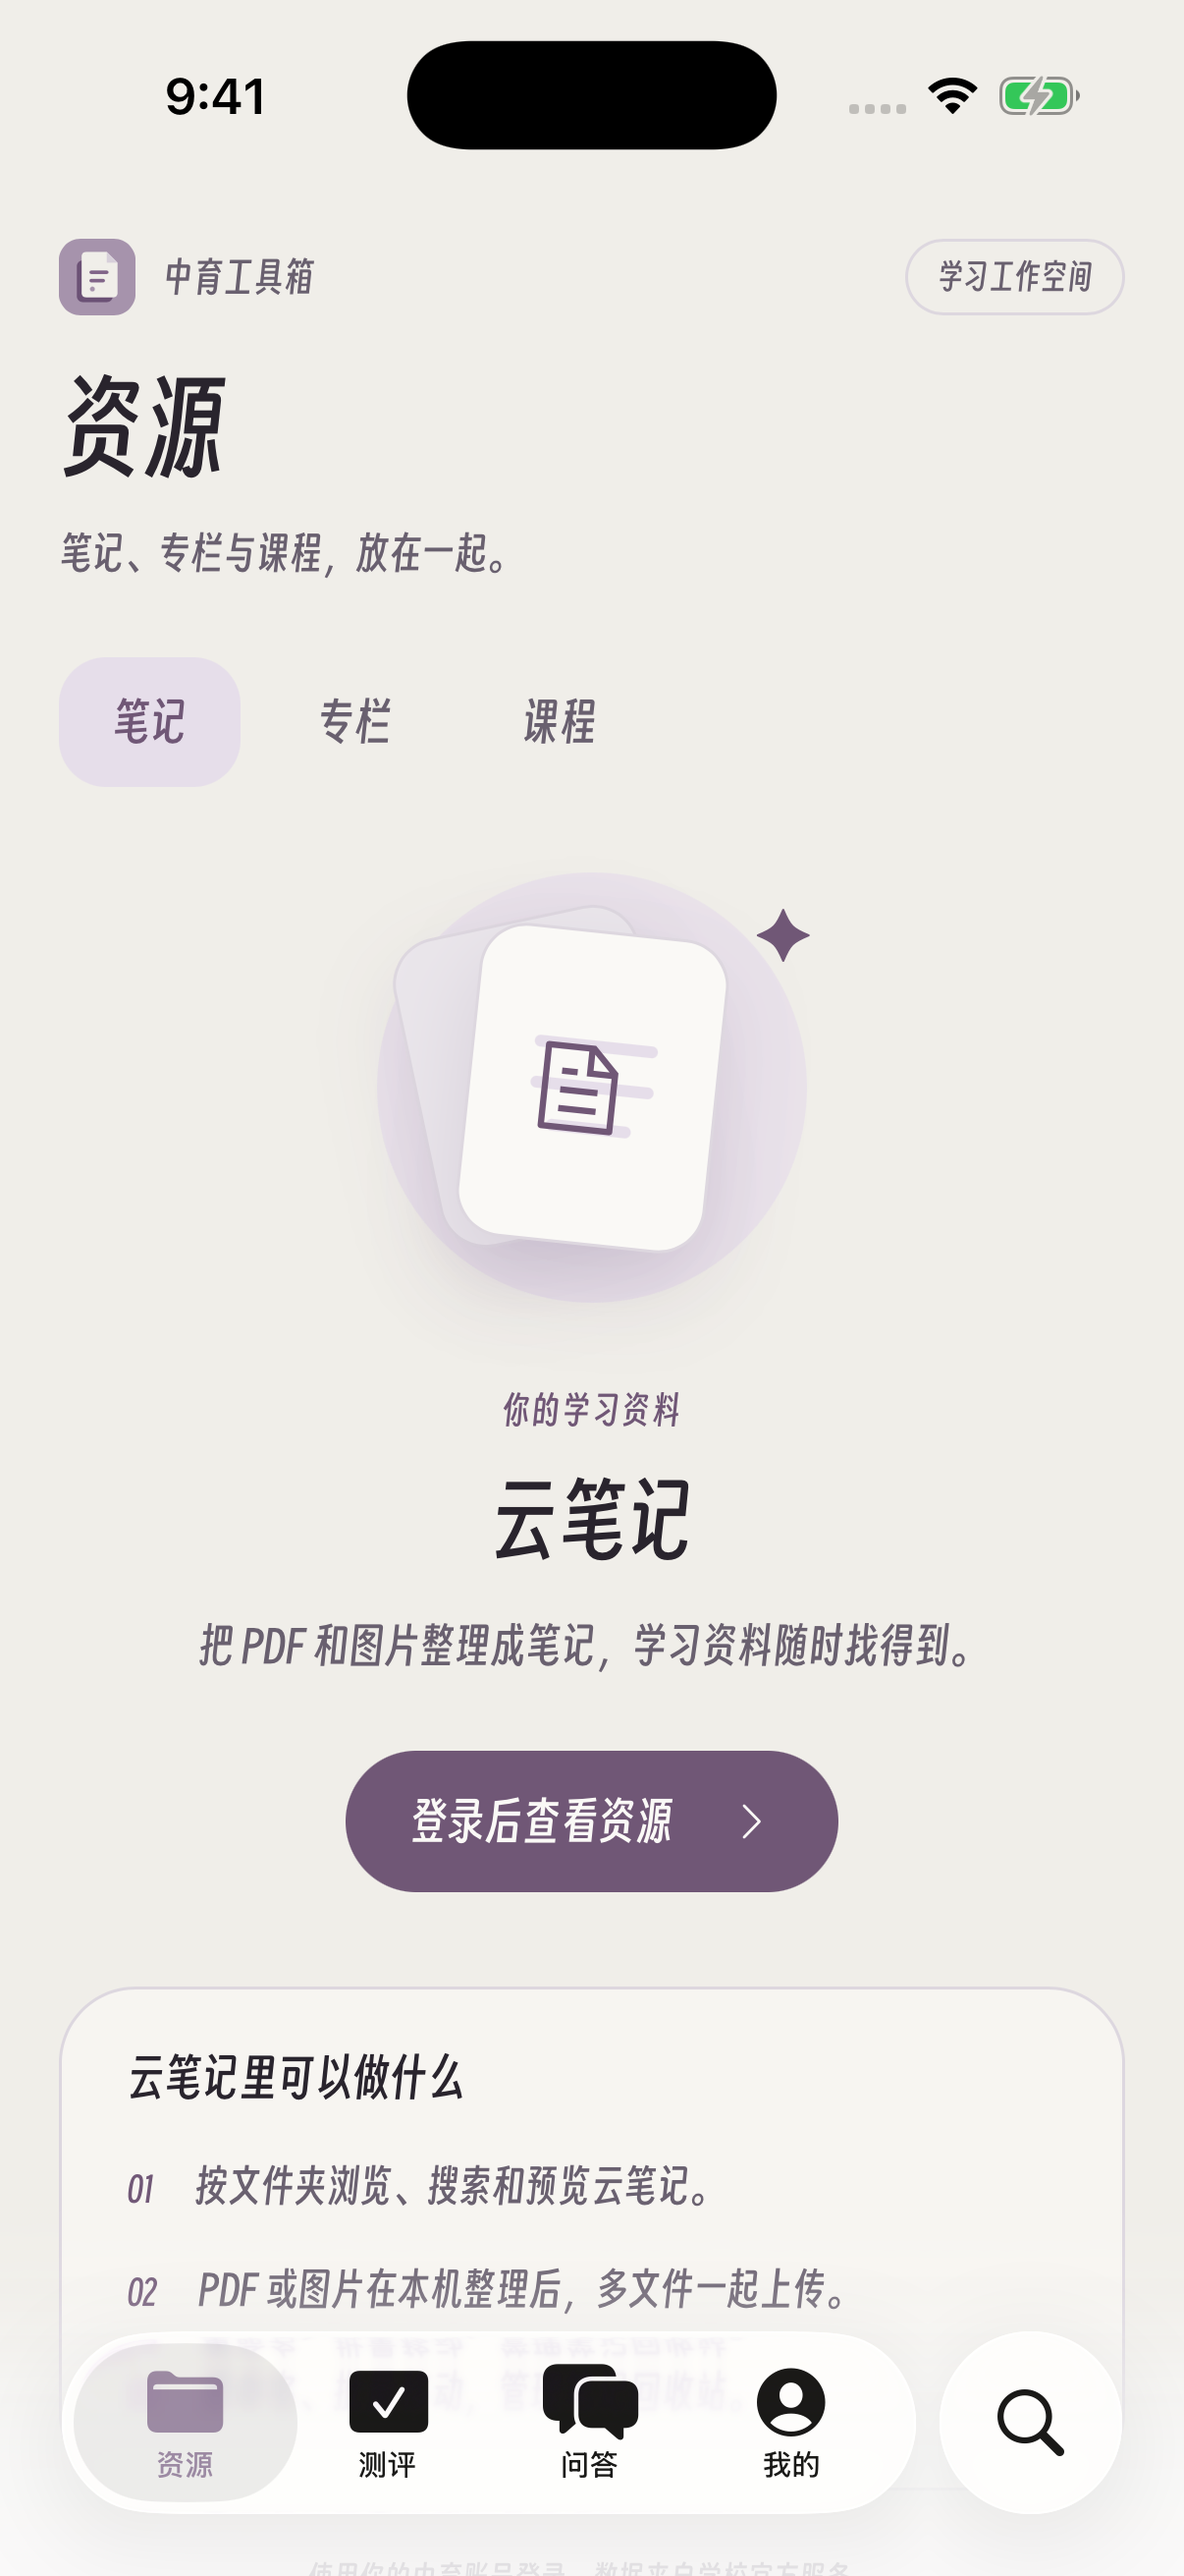
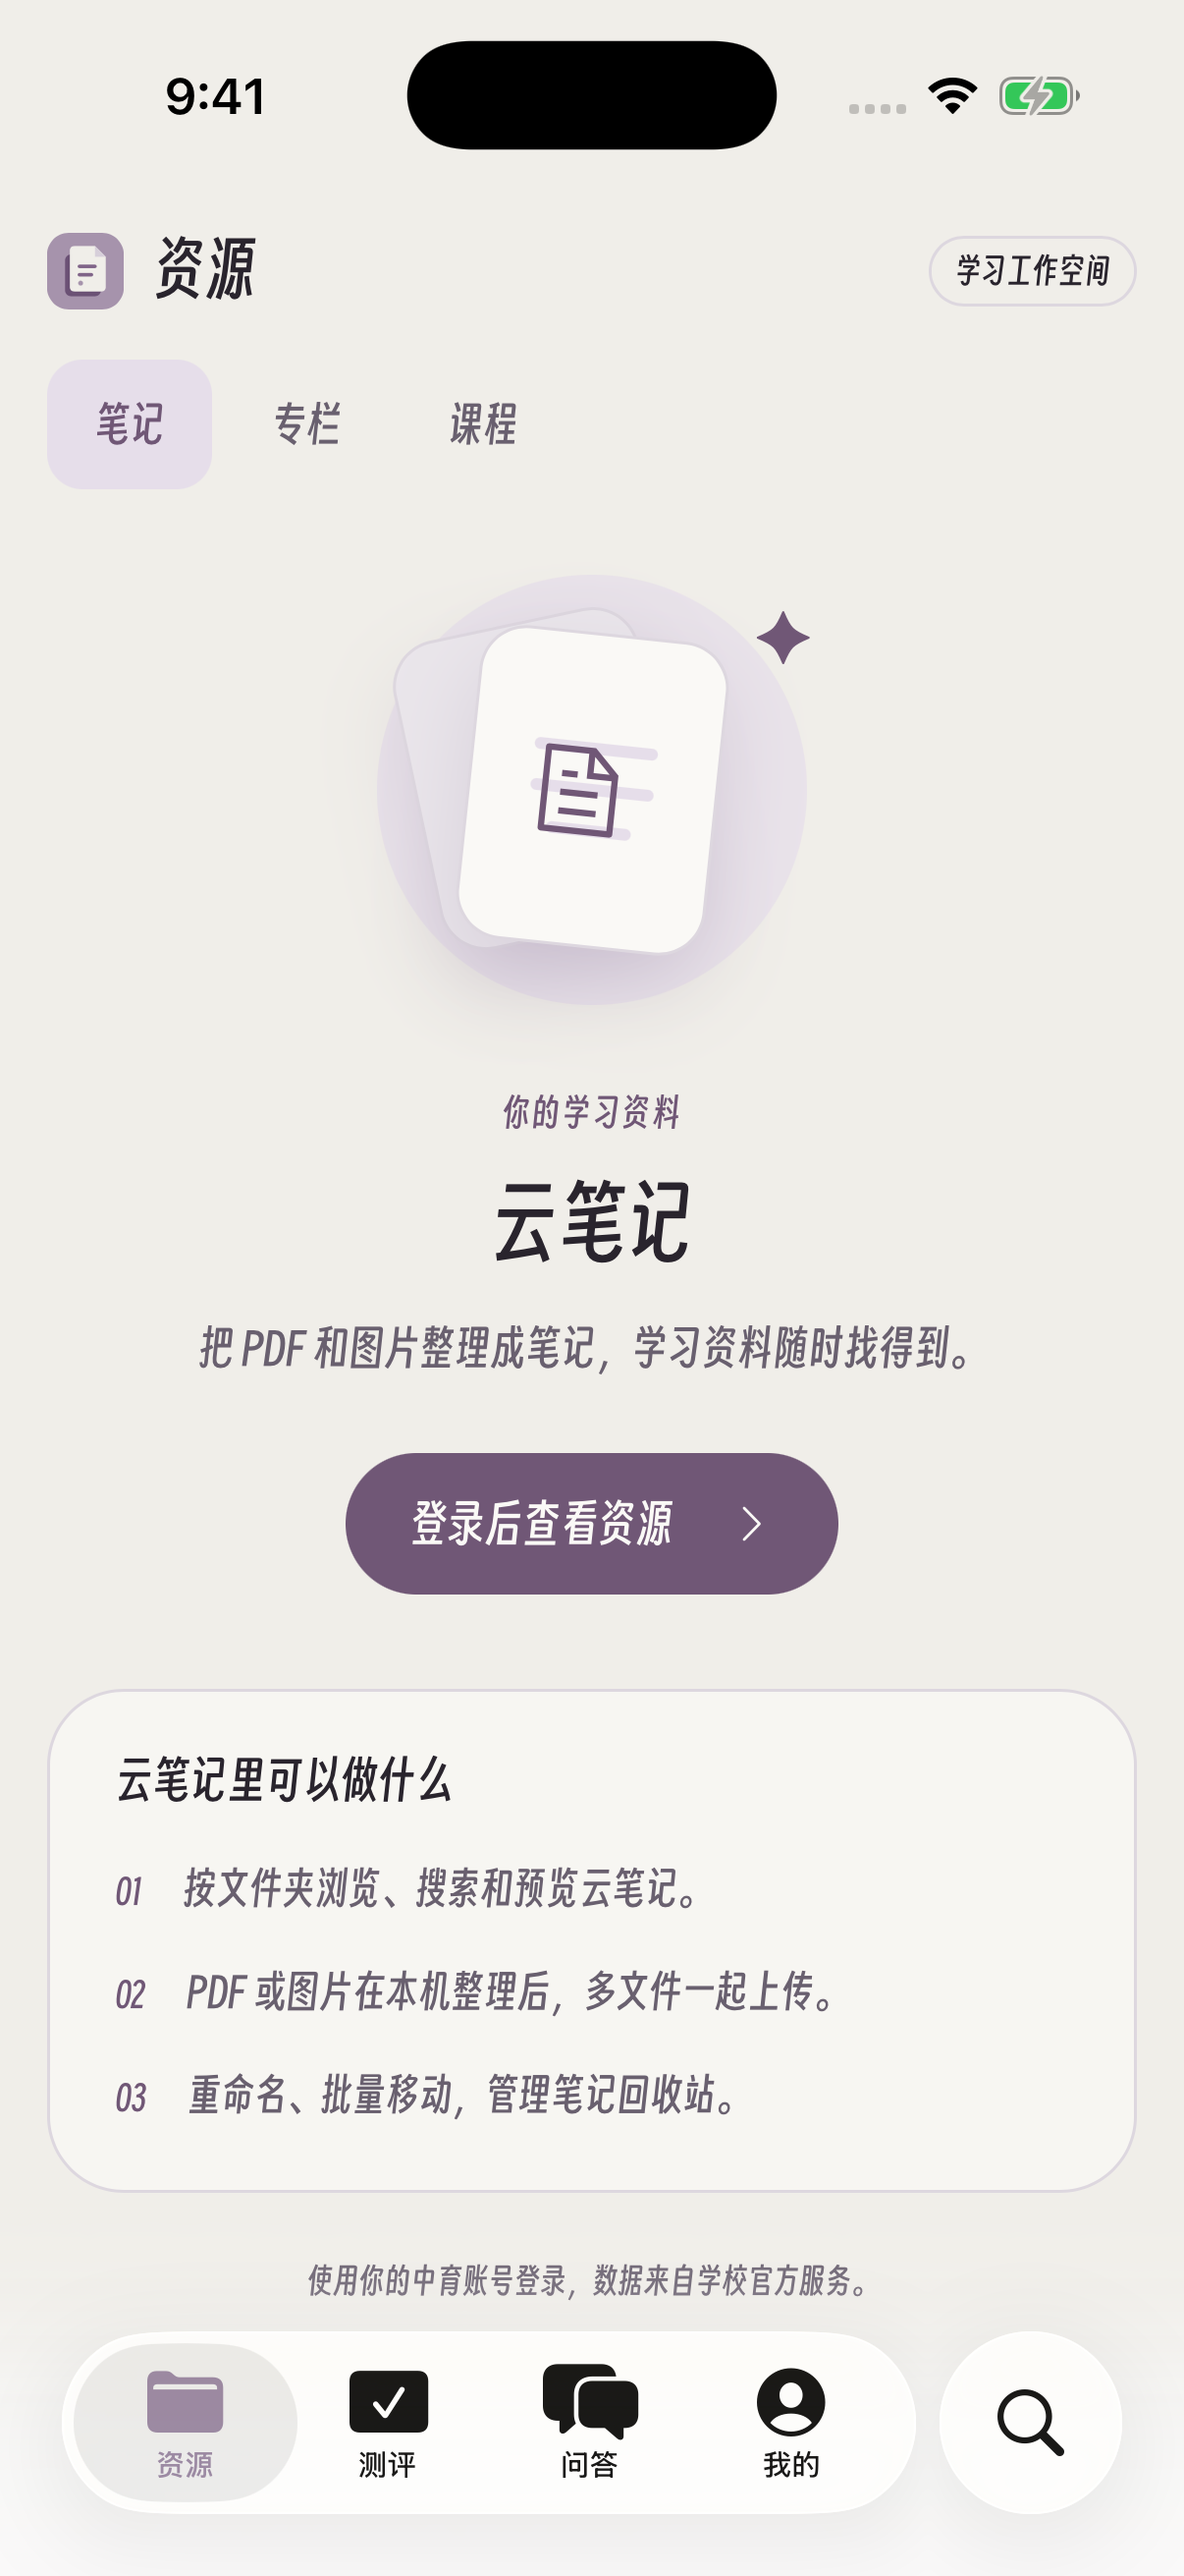
Document compact mobile layout with Android and iOS Beta 2 app screenshots

diff --git a/README.md b/README.md
@@ -11,35 +11,52 @@
 2. **填写「操作步骤」「预期结果」和「实际结果 / 报错」，准备好报错截图。**
 3. **点击「复制反馈信息」，将反馈内容和截图发送到页面显示的 QQ 交流群；也可点击「在 GitHub 提交问题」，补充内容后提交 Issue。**
 
-反馈入口随 iOS 1.1.14 Beta 包上线；Windows / Android 共用源码已加入，原有 1.1.14 正式安装包此次未重新打包。反馈页面会自动带上应用版本、运行平台和系统 / 浏览器信息，不自动提交账号或学习资料。页面显示的 QQ 交流群为 `1067807011`。
+反馈入口已包含在 iOS 1.1.14 Beta 与本次 Android 1.1.14 更新包中；Windows 共用源码已加入，既有 Windows 正式安装包此次未重新打包。反馈页面会自动带上应用版本、运行平台和系统 / 浏览器信息，不自动提交账号或学习资料。页面显示的 QQ 交流群为 `1067807011`。
 
-<p><img src="docs/screenshots/iphone-feedback-beta1.png" alt="1.1.14 Beta 1 实际 iPhone 应用内问题反馈入口" width="300"></p>
+<p><img src="docs/screenshots/iphone-feedback-beta2.png" alt="1.1.14 Beta 2 实际 iPhone 应用内问题反馈入口" width="300"></p>
 
 ## 下载与安装
 
 [Windows / Android 最新正式版](https://github.com/nickfox395/ZhongYuToolBox_Web/releases/latest) · [开发中的三端源码](https://github.com/nickfox395/ZhongYuToolBox_Web/tree/feature/ios-liquid-glass-1.1.9) · [原作者项目](https://github.com/Loshop-Studio/ZhongYuToolBox_Web)
 
-当前 Windows / Android 正式版为 **1.1.14-aoki**；iOS 同为 **1.1.14**，改为独立 **Beta 内测**发布。新增云笔记高清矢量 PDF、当前页 SVG 与全部页面 SVG（ZIP）导出，沿用 npm 画板组件。Windows 提供安装程序和便携包，Android 提供 APK，iPhone / iPad 的未签名 IPA 仅放在 [iOS 1.1.14 Beta 内测页](https://github.com/nickfox395/ZhongYuToolBox_Web/releases/tag/v1.1.14-ios-beta1)，不再放入正式版下载。
+当前 Windows / Android 正式版为 **1.1.14-aoki**；iOS 同为 **1.1.14**，改为独立 **Beta 内测**发布。新增云笔记高清矢量 PDF、当前页 SVG 与全部页面 SVG（ZIP）导出，沿用 npm 画板组件。Windows 提供安装程序和便携包，Android 提供 APK，iPhone / iPad 的未签名 IPA 仅放在 [iOS 1.1.14 Beta 内测页](https://github.com/nickfox395/ZhongYuToolBox_Web/releases/tag/v1.1.14-ios-beta2)，不再放入正式版下载。
 
 | 平台 | 下载文件 | 安装方式 |
 | --- | --- | --- |
 | Windows 10/11 x64 | `Windows-x64-Setup.exe` 或便携 ZIP | 运行安装程序；便携版完整解压后打开 exe，需要系统 WebView2 Runtime |
 | Android 8.0+ | `Android.apk` | 在 Android 设备打开 APK，按系统提示安装，需要较新的系统 WebView |
-| iPhone / iPad · iOS 16+ | `iOS-beta1-unsigned.ipa` | 未签名包需自行签名（如爱思助手）后安装，并在设备设置中完成信任；iOS 26 使用系统 Liquid Glass 导航 |
+| iPhone / iPad · iOS 16+ | `iOS-beta2-unsigned.ipa` | 未签名包需自行签名（如爱思助手）后安装，并在设备设置中完成信任；iOS 26 使用系统 Liquid Glass 导航 |
 
 安装包不包含账号、密码、Token 或个人笔记。Windows 同一系统用户的不同便携版本复用 `%LOCALAPPDATA%\ZhongYuToolbox-aoki-WebView2` 的既有登录缓存；自动登录不等于账号被打进安装包。
 
-## iOS 1.1.14 Beta 1
+## iOS 1.1.14 Beta 2 · 移动端紧凑布局
 
-修复图库及云笔记上传的 ATS 拦截：官方 STS 返回的阿里云 HTTP endpoint、图库图片地址与重定向统一使用 HTTPS，保持文件内容、对象路径及签名参数。主版本仍为 1.1.14，应用内显示 beta1，内部构建号为 10114.2；后续 beta2 等可由检查更新识别。验证包含真实原生 URLSession 对公开 OSS 地址的无凭据 HEAD 请求，以及模拟 HTTP endpoint 的上传回归；不向真实账号上传测试资料。
+主版本保持 **1.1.14**，应用内显示 **1.1.14-ios-beta2**，内部构建号 **10114.3**。Android 1.1.14 正式页的 APK 同步替换为这次移动布局；Windows 附件保留原版本。
+
+- 顶部品牌、大标题和重复说明合并为一行，分类栏与正文的间距缩短；笔记、文章和画板详情页合并重复标题 / 返回栏。
+- Android 普通底栏约 55 CSS 像素高；iOS 保留 Apple 原生底栏、搜索与返回，按实际高度避让。主要导航按钮的触摸区域仍至少为 44 像素。
+- 云笔记减少列表内边距，长列表最后一项可完整滚动到导航栏上方；专栏、选课与详情使用剩余高度。
+- 保留浅色 / 深色 / 跟随系统、作者统计、HTTPS OSS 上传、WebP 本地编码、端口冲突修复、笔记矢量导出与既有功能。
+
+原生 iPhone 测试覆盖专栏内容可见范围、原生导航、文章图片、画板编辑、上传及反馈；iPad 测试覆盖横屏完整尺寸与底栏位置。测试素材为合成内容，云端写入被模拟，未使用真实账号上传或删除资料。
 
 本仓库与上游分别发布 iOS Pre-release；fork 与上游发行包均保留并启用作者统计，并使用各自仓库的更新及反馈入口。两份包保留本版移动 UI，未覆盖上游主分支代码。
 
 ## 实际运行界面
 
-以下是实际应用和测试环境截图，不是设计稿。iPhone 基础页面及 iPad 竖屏截图来自 1.1.13；iPhone 反馈入口与 iPad 横屏截图已更新为 1.1.14 Beta 1，来自 iOS 26 模拟器中运行的 UIKit + WKWebView 应用；Android 截图来自 1.1.12 模拟器，导航布局沿用至当前版本。Windows 的 1.1.13 网页资源以 WebView2 模式运行，列表使用离线演示数据。专栏和画板测试使用合成资料，截图未展示真实账号和学习资料。
+以下是实际运行截图，不是设计稿。iPhone / iPad 截图已更新为 **1.1.14 Beta 2**，来自 iOS 26 模拟器中的 **UIKit + WKWebView** 应用；Android 截图为本次 **1.1.14** 原生壳，登录后的列表使用独立 QA 包的离线测试资料，正式 APK 不包含这些资料。Windows 旧截图保留并标明版本。截图不展示真实账号和学习资料。
 
-<p><img src="docs/screenshots/iphone-light.png" alt="iPhone 浅色模式与系统 Liquid Glass 底栏" width="260"> <img src="docs/screenshots/iphone-dark.png" alt="iPhone 深色模式" width="260"> <img src="docs/screenshots/android-light.png" alt="Android 四栏布局" width="260"></p>
+**移动端工作区**：一行标题、更紧凑的分类与底栏；iPhone 专栏、Android 云笔记浅色与深色。
+
+<p><img src="docs/screenshots/iphone-compact-column-beta2.png" alt="1.1.14 Beta 2 iPhone 原生应用紧凑专栏工作区，离线测试文章" width="260"> <img src="docs/screenshots/android-light.png" alt="1.1.14 Android 原生壳紧凑云笔记工作区，离线测试数据" width="260"> <img src="docs/screenshots/android-dark.png" alt="1.1.14 Android 原生壳深色云笔记" width="260"></p>
+
+**Android 笔记预览**：详情页保留一条操作栏，预览与翻页使用剩余空间；列表末项也可完整显示。
+
+<p><img src="docs/screenshots/android-note-detail-light.png" alt="Android 一条笔记标题操作栏与矢量预览，离线测试笔记" width="260"> <img src="docs/screenshots/android-notes-bottom-light.png" alt="Android 长列表最后一项与操作按钮完整显示在底栏上方" width="260"></p>
+
+**iPhone 未登录首页**：浅色 / 深色与 Apple 原生底栏。
+
+<p><img src="docs/screenshots/iphone-light.png" alt="1.1.14 Beta 2 iPhone 浅色未登录资源页与原生底栏" width="260"> <img src="docs/screenshots/iphone-dark.png" alt="1.1.14 Beta 2 iPhone 跟随系统深色" width="260"></p>
 
 **iPhone 画板回复**：实际输入文字、撤销并重做后的画布，缩放为正数。
 
@@ -49,7 +66,7 @@
 
 <p><img src="docs/screenshots/ipad-light.png" alt="iPad 竖屏资源页" width="620"></p>
 
-**iPad 横屏 · 1.1.14 Beta 1**：截取整个模拟器屏幕，分别核查专栏列表、文章图片和“我的”页面；内容可正常滚动，四个原生标签在屏幕底部。浅色和深色截图独立标注，避免将 Windows 界面误认为 iPad。
+**iPad 横屏 · 1.1.14 Beta 2**：截取整个模拟器屏幕，分别核查专栏列表、文章图片和“我的”页面；内容可正常滚动，四个原生标签在屏幕底部。浅色和深色截图独立标注，避免将 Windows 界面误认为 iPad。
 
 <p><img src="docs/screenshots/ipad-landscape-column-light.png" alt="iPad 横屏浅色专栏列表，完整屏幕" width="900"></p>
 
